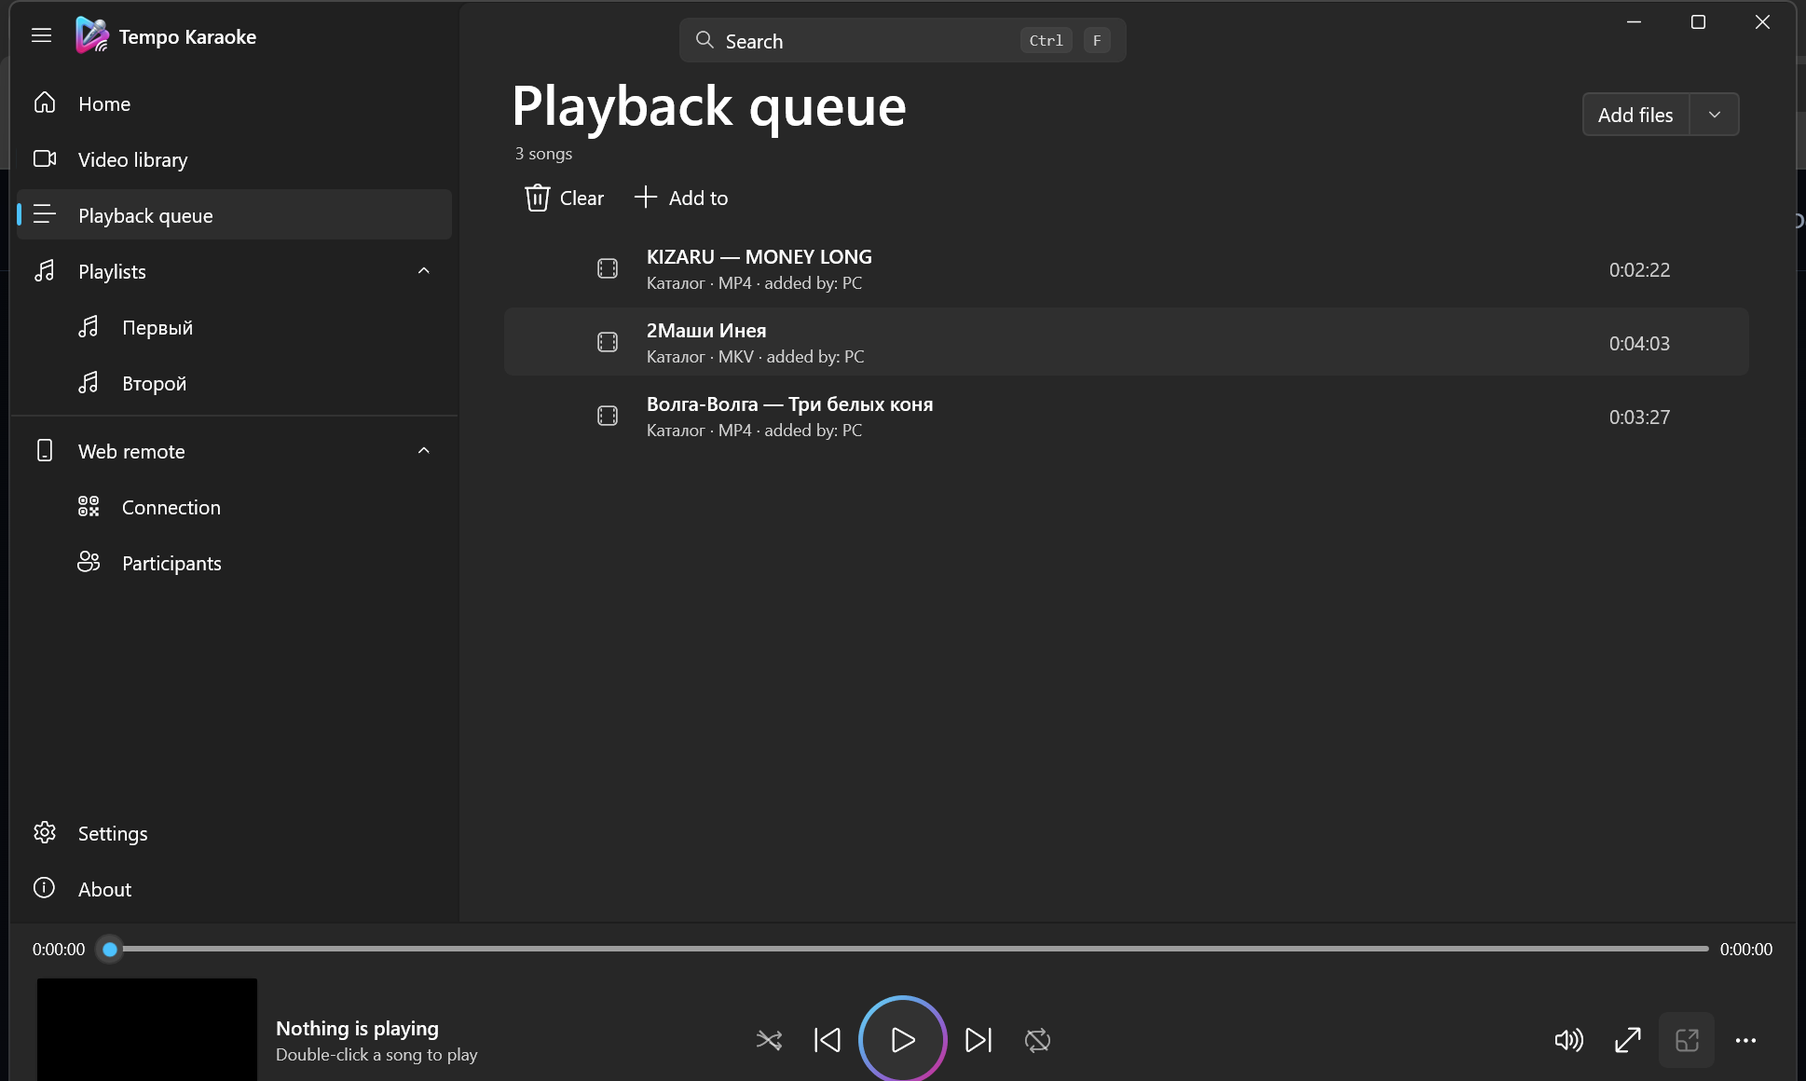
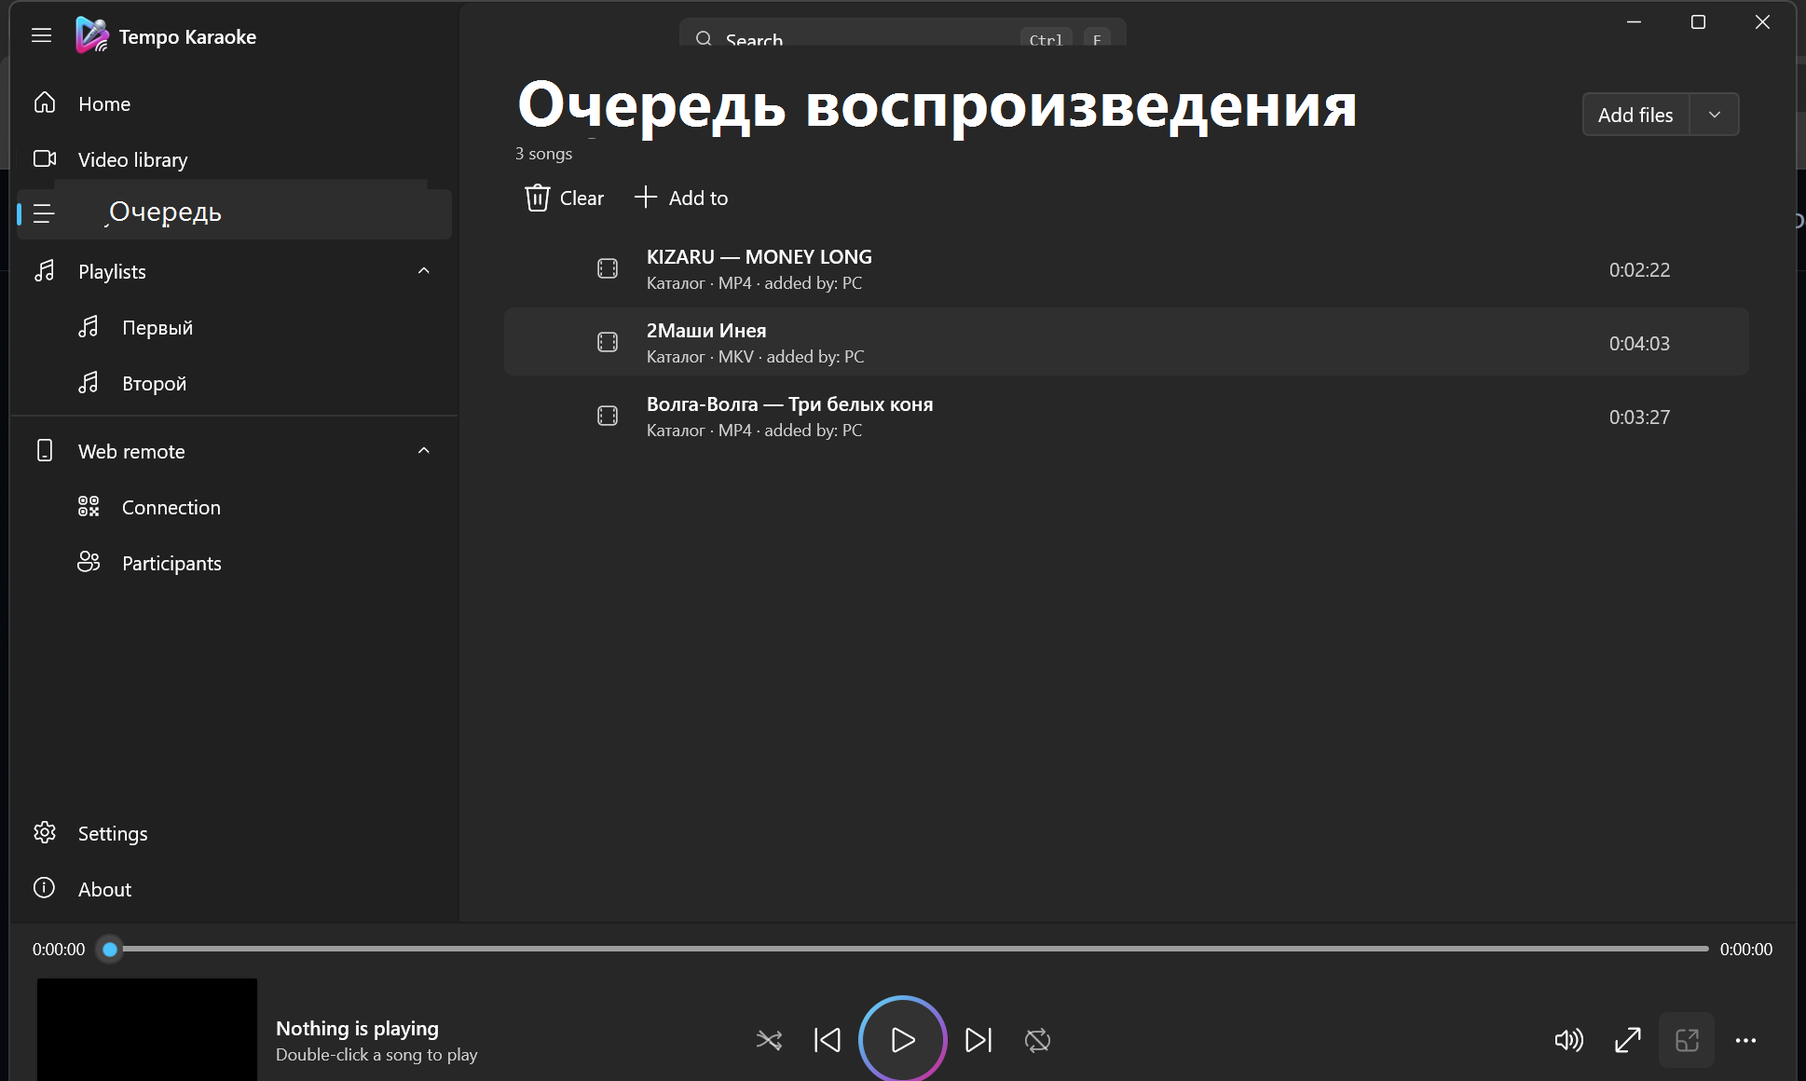
refactor(site): focus landing copy on the host
Reframe the hero around the owner's PC, make guest convenience the key feature, clarify metrics, remove duplicated section headings, localize the queue preview, rewrite autopilot steps and unify the download CTA.

Changed region(s): [[0.2786, 0.031, 0.774, 0.1241], [0.031, 0.1862, 0.1238, 0.2172]]

diff --git a/site/ru.html b/site/ru.html
@@ -3,10 +3,10 @@
 <head>
   <meta charset="utf-8">
   <meta name="viewport" content="width=device-width, initial-scale=1">
-  <title>Tempo Karaoke — сканируй, заказывай и выходи на сцену</title>
-  <meta name="description" content="Нативный караоке-плеер для Windows: локальная медиатека, умный поиск, очередь, плейлисты и живой веб-пульт для телефонов. Бесплатно и с открытым кодом.">
+  <title>Tempo Karaoke — караоке-станция на вашем ПК</title>
+  <meta name="description" content="Запустите Tempo Karaoke на ПК, выведите караоке-видео на ТВ, а гости пусть заказывают песни со своих телефонов по QR-коду. Без приложений для гостей и аккаунтов.">
   <meta property="og:title" content="Tempo Karaoke">
-  <meta property="og:description" content="Ваша караоке-медиатека, умный поиск и живой пульт в телефоне — на Windows.">
+  <meta property="og:description" content="Караоке-станция на вашем ПК. Гости заказывают песни со своих телефонов по QR-коду — без установки приложений.">
   <meta property="og:image" content="https://itsbuyru-bit.github.io/Tempo-Karaoke/assets/banner.png">
   <link rel="icon" href="assets/appicon.png">
   <link rel="stylesheet" href="styles.css">
@@ -35,9 +35,9 @@
     <section class="container hero">
       <div class="hero-glow" aria-hidden="true"><img src="assets/appicon.png" alt=""></div>
       <div class="hero-copy">
-        <span class="eyebrow"><span class="dot"></span>Гостям не нужно ничего устанавливать</span>
-        <h1>Сканируй, заказывай<br><span class="gradient">и выходи на сцену.</span></h1>
-        <p class="lead">Tempo Karaoke превращает любую папку с караоке-видео в быстрый и красивый каталог. Гости ищут и заказывают песни со своих телефонов, а видео играет на большом экране.</p>
+        <span class="eyebrow"><span class="dot"></span>Гостям не нужно ничего скачивать — управление по QR-коду</span>
+        <h1>Караоке-станция на вашем ПК.<br><span class="gradient">Гости заказывают песни со своих телефонов.</span></h1>
+        <p class="lead">Вы запускаете Tempo Karaoke на компьютере и выводите видео с текстом песни на ТВ. Гости сканируют QR-код, ищут треки и встают в очередь прямо из браузера смартфона — без установки приложений.</p>
         <div class="hero-actions">
           <a class="btn primary" href="https://github.com/itsbuyru-bit/Tempo-Karaoke/releases/latest">
             <svg viewBox="0 0 24 24" fill="none" stroke="currentColor" stroke-width="2" aria-hidden="true"><path d="M12 3v12m0 0 4-4m-4 4-4-4"/><path d="M5 20h14"/></svg>
@@ -71,16 +71,16 @@
     </section>
 
     <section class="container stats" aria-label="Коротко о проекте">
-      <div class="stat"><b>4 656</b><span>песен индексируются за секунды в демо-библиотеке</span></div>
-      <div class="stat"><b>0</b><span>приложений нужно ставить гостям</span></div>
-      <div class="stat"><b>1</b><span>QR-код от ноутбука к телевизору</span></div>
+      <div class="stat"><b>4 656</b><span>песен в демо-библиотеке</span></div>
+      <div class="stat"><b>0</b><span>приложений нужно устанавливать гостям</span></div>
+      <div class="stat"><b>1</b><span>QR-код — и пульт открыт на любом телефоне</span></div>
     </section>
 
         <section id="showcase" class="container app-shots" aria-label="Внутри приложения" data-autoplay-on="Автопоказ: ВКЛ" data-autoplay-off="Автопоказ: ВЫКЛ">
       <div class="showcase-head">
         <div class="section-head">
           <span class="section-kicker">Внутри приложения</span>
-          <h2>Сделано для настоящего караоке-вечера.</h2>
+          <h2>Все инструменты ведущего в одном окне.</h2>
           <p>Пять экранов нативного Windows-приложения. Переключайтесь по вкладкам, стрелкам ← → или откройте скриншот на весь экран.</p>
         </div>
         <button type="button" class="autoplay-toggle" data-showcase-autoplay aria-pressed="true">
@@ -106,7 +106,7 @@
             <figure class="showcase-slide active" data-showcase-slide="0" data-title="Медиатека" data-desc="Тысячи песен, сгруппированные по исполнителю и версии." data-crumb="Медиатека · 4 656 песен" aria-hidden="false">
               <img src="assets/screenshots/library.png" alt="Медиатека Tempo Karaoke" width="1938" height="1160">
             </figure>
-            <figure class="showcase-slide" data-showcase-slide="1" data-title="Очередь" data-desc="Очередь сохраняется между запусками и помнит, кто заказал." data-crumb="Очередь · 3 трека" aria-hidden="true">
+            <figure class="showcase-slide" data-showcase-slide="1" data-title="Очередь воспроизведения" data-desc="Очередь сохраняется между запусками и помнит, кто заказал." data-crumb="Очередь воспроизведения · 3 трека" aria-hidden="true">
               <img src="assets/screenshots/queue.png" alt="Очередь воспроизведения Tempo Karaoke" loading="lazy" width="1938" height="1160">
             </figure>
             <figure class="showcase-slide" data-showcase-slide="2" data-title="Плейлисты" data-desc="Сохранённые наборы для всего вечера — интерфейс полностью на английском." data-crumb="Плейлисты · Test1, Test2" aria-hidden="true">
@@ -151,7 +151,7 @@
     <section id="features" class="container">
       <div class="section-head">
         <span class="section-kicker">Для всего вечера</span>
-        <h2>Всё для караоке-вечера</h2>
+        <h2>Полный контроль над звуком и экраном</h2>
         <p>Большие локальные коллекции, заказы с телефонов и долгие вечера — без папок, таблиц и облачных аккаунтов.</p>
       </div>
       <div class="bento">
@@ -196,13 +196,13 @@
     <section id="remote" class="container">
       <div class="section-head">
         <span class="section-kicker">Один QR-код — все телефоны</span>
-        <h2>Вечеринка управляет собой.</h2>
-        <p>Запустите встроенный веб-сервер, покажите QR-код — и гости откроют каталог в любом современном браузере. Управление воспроизведением, громкостью и очередью остаётся у вас.</p>
+        <h2>Очередь движется сама — без участия ведущего.</h2>
+        <p>Вы показываете QR-код на экране — гости открывают пульт в браузере смартфона. Весь вечер вы управляете только звуком и экраном, а очередь собирается и переключается без вашего участия.</p>
       </div>
       <div class="steps">
-        <article class="step"><span class="num">01</span><h3>Сканируйте</h3><p>Приложение не нужно — работает в iOS и Android через Wi-Fi или Wi-Fi Direct.</p></article>
-        <article class="step"><span class="num">02</span><h3>Заказывайте</h3><p>Гости ищут песни, отправляют заявки и видят свою позицию в живой очереди.</p></article>
-        <article class="step"><span class="num">03</span><h3>Пойте</h3><p>Ведущий приоритизирует заявки, пропускает треки и управляет воспроизведением по PIN.</p></article>
+        <article class="step"><span class="num">01</span><h3>Выведите QR-код на экран</h3><p>Гости видят его на ТВ или проекторе и сразу открывают пульт — устанавливать приложение не нужно.</p></article>
+        <article class="step"><span class="num">02</span><h3>Гости сами добавляют треки</h3><p>Поиск, заказ и своя позиция в очереди — в браузере смартфона, без вашего участия.</p></article>
+        <article class="step"><span class="num">03</span><h3>Очередь переключается автоматически</h3><p>Следующий трек запускается сам, а вы управляете только звуком и экраном.</p></article>
       </div>
     </section>
 
@@ -213,8 +213,8 @@
           <h2>Скачать Tempo Karaoke</h2>
           <p>Последний установщик публикуется в GitHub Releases. Без установки VLC, конвертации медиа и аккаунта.</p>
           <div class="hero-actions">
-            <a class="btn primary" href="https://github.com/itsbuyru-bit/Tempo-Karaoke/releases/latest">Последний релиз</a>
-            <a class="btn ghost" href="https://github.com/itsbuyru-bit/Tempo-Karaoke/releases">Все релизы</a>
+            <a class="btn primary" href="https://github.com/itsbuyru-bit/Tempo-Karaoke/releases/latest">Скачать для Windows</a>
+            <a class="btn ghost" href="https://github.com/itsbuyru-bit/Tempo-Karaoke/releases">Все релизы на GitHub</a>
           </div>
         </div>
         <div class="requirements">

diff --git a/site/index.html b/site/index.html
@@ -3,10 +3,10 @@
 <head>
   <meta charset="utf-8">
   <meta name="viewport" content="width=device-width, initial-scale=1">
-  <title>Tempo Karaoke — scan, queue and take the stage</title>
-  <meta name="description" content="Native Windows karaoke player for your local video library: smart search, queue, playlists and a live browser remote for phones. Free and open source.">
+  <title>Tempo Karaoke — a karaoke station on your PC</title>
+  <meta name="description" content="Run Tempo Karaoke on your PC, put karaoke videos on the TV, and let guests order songs from their phones by QR code. No guest app, no account.">
   <meta property="og:title" content="Tempo Karaoke">
-  <meta property="og:description" content="Your karaoke library, smart search and a live phone remote — on Windows.">
+  <meta property="og:description" content="A karaoke station on your PC. Guests order songs from their phones by QR code — no app to install.">
   <meta property="og:image" content="https://itsbuyru-bit.github.io/Tempo-Karaoke/assets/banner-en.png">
   <link rel="icon" href="assets/appicon.png">
   <link rel="stylesheet" href="styles.css">
@@ -35,9 +35,9 @@
     <section class="container hero">
       <div class="hero-glow" aria-hidden="true"><img src="assets/appicon.png" alt=""></div>
       <div class="hero-copy">
-        <span class="eyebrow"><span class="dot"></span>Zero-friction guest experience</span>
-        <h1>Scan, queue &amp; take<br><span class="gradient">the stage.</span></h1>
-        <p class="lead">Tempo Karaoke turns any folder of karaoke videos into a fast, beautiful catalog. Guests search and queue songs from their phones while the video plays on the big screen.</p>
+        <span class="eyebrow"><span class="dot"></span>Guests don't need to download anything — control by QR code</span>
+        <h1>A karaoke station on your PC.<br><span class="gradient">Guests order songs from their phones.</span></h1>
+        <p class="lead">Run Tempo Karaoke on your computer and send the video with lyrics to your TV. Guests scan a QR code, search for tracks and join the queue right from their phone browser — no app to install.</p>
         <div class="hero-actions">
           <a class="btn primary" href="https://github.com/itsbuyru-bit/Tempo-Karaoke/releases/latest">
             <svg viewBox="0 0 24 24" fill="none" stroke="currentColor" stroke-width="2" aria-hidden="true"><path d="M12 3v12m0 0 4-4m-4 4-4-4"/><path d="M5 20h14"/></svg>
@@ -71,16 +71,16 @@
     </section>
 
     <section class="container stats" aria-label="Highlights">
-      <div class="stat"><b>4,656</b><span>songs indexed in seconds in the demo library</span></div>
-      <div class="stat"><b>0</b><span>apps to install on guest phones</span></div>
-      <div class="stat"><b>1</b><span>QR code from laptop to TV</span></div>
+      <div class="stat"><b>4,656</b><span>songs in the demo library</span></div>
+      <div class="stat"><b>0</b><span>guest apps to install</span></div>
+      <div class="stat"><b>1</b><span>QR code — the remote opens on any phone</span></div>
     </section>
 
         <section id="showcase" class="container app-shots" aria-label="Inside the app" data-autoplay-on="Autoplay: ON" data-autoplay-off="Autoplay: OFF">
       <div class="showcase-head">
         <div class="section-head">
           <span class="section-kicker">Inside the app</span>
-          <h2>Built for a real karaoke night.</h2>
+          <h2>All the host's tools in one window.</h2>
           <p>Five screens from the native Windows app. Switch tabs, use ← →, or open a screenshot full screen.</p>
         </div>
         <button type="button" class="autoplay-toggle" data-showcase-autoplay aria-pressed="true">
@@ -151,7 +151,7 @@
     <section id="features" class="container">
       <div class="section-head">
         <span class="section-kicker">Built for the whole evening</span>
-        <h2>Everything a karaoke night needs</h2>
+        <h2>Full control over sound and screen</h2>
         <p>Large local collections, remote requests and long evenings — without folders, spreadsheets or cloud accounts.</p>
       </div>
       <div class="bento">
@@ -196,13 +196,13 @@
     <section id="remote" class="container">
       <div class="section-head">
         <span class="section-kicker">One QR code, every phone</span>
-        <h2>The party controls itself.</h2>
-        <p>Start the built-in web server, show the QR code and let guests browse the catalog from any modern browser. You keep control of playback, volume and the queue.</p>
+        <h2>The queue runs itself — no host required.</h2>
+        <p>Show the QR code on screen and guests open the remote in their phone browser. You keep control of sound and screen; the queue builds and advances without you.</p>
       </div>
       <div class="steps">
-        <article class="step"><span class="num">01</span><h3>Scan</h3><p>No app download — works in iOS and Android browsers over Wi-Fi or Wi-Fi Direct.</p></article>
-        <article class="step"><span class="num">02</span><h3>Queue</h3><p>Guests search, request songs and watch their exact position in the live queue.</p></article>
-        <article class="step"><span class="num">03</span><h3>Sing</h3><p>The host prioritizes requests, skips tracks and controls playback with a PIN.</p></article>
+        <article class="step"><span class="num">01</span><h3>Put the QR code on screen</h3><p>Guests see it on the TV or projector and open the remote instantly — no app to install.</p></article>
+        <article class="step"><span class="num">02</span><h3>Guests add their own tracks</h3><p>Search, requests and queue position happen in the phone browser, without your involvement.</p></article>
+        <article class="step"><span class="num">03</span><h3>The queue advances automatically</h3><p>The next track starts by itself; you only control sound and screen.</p></article>
       </div>
     </section>
 
@@ -213,8 +213,8 @@
           <h2>Download Tempo Karaoke</h2>
           <p>The latest installer is published on GitHub Releases. No VLC install, no media conversion and no account.</p>
           <div class="hero-actions">
-            <a class="btn primary" href="https://github.com/itsbuyru-bit/Tempo-Karaoke/releases/latest">Get the latest release</a>
-            <a class="btn ghost" href="https://github.com/itsbuyru-bit/Tempo-Karaoke/releases">All releases</a>
+            <a class="btn primary" href="https://github.com/itsbuyru-bit/Tempo-Karaoke/releases/latest">Download for Windows</a>
+            <a class="btn ghost" href="https://github.com/itsbuyru-bit/Tempo-Karaoke/releases">All releases on GitHub</a>
           </div>
         </div>
         <div class="requirements">

diff --git a/site/styles.css b/site/styles.css
@@ -324,7 +324,7 @@ h1 .gradient {
 /* Stats */
 .stats { display: grid; grid-template-columns: repeat(3, 1fr); gap: 14px; padding: 14px 0 26px; }
 .stat { padding: 18px 20px; border: 1px solid var(--line); border-radius: 14px; background: rgba(17,23,34,.62); display: flex; align-items: baseline; gap: 10px; }
-.stat b { font-size: 1.55rem; letter-spacing: -.04em; background: linear-gradient(100deg, #9bd3ff, #e0b6ff); -webkit-background-clip: text; background-clip: text; color: transparent; }
+.stat b { font-size: 1.55rem; white-space: nowrap; letter-spacing: -.04em; background: linear-gradient(100deg, #9bd3ff, #e0b6ff); -webkit-background-clip: text; background-clip: text; color: transparent; }
 .stat span { color: var(--dim); font-size: .78rem; }
 
 /* Features */
